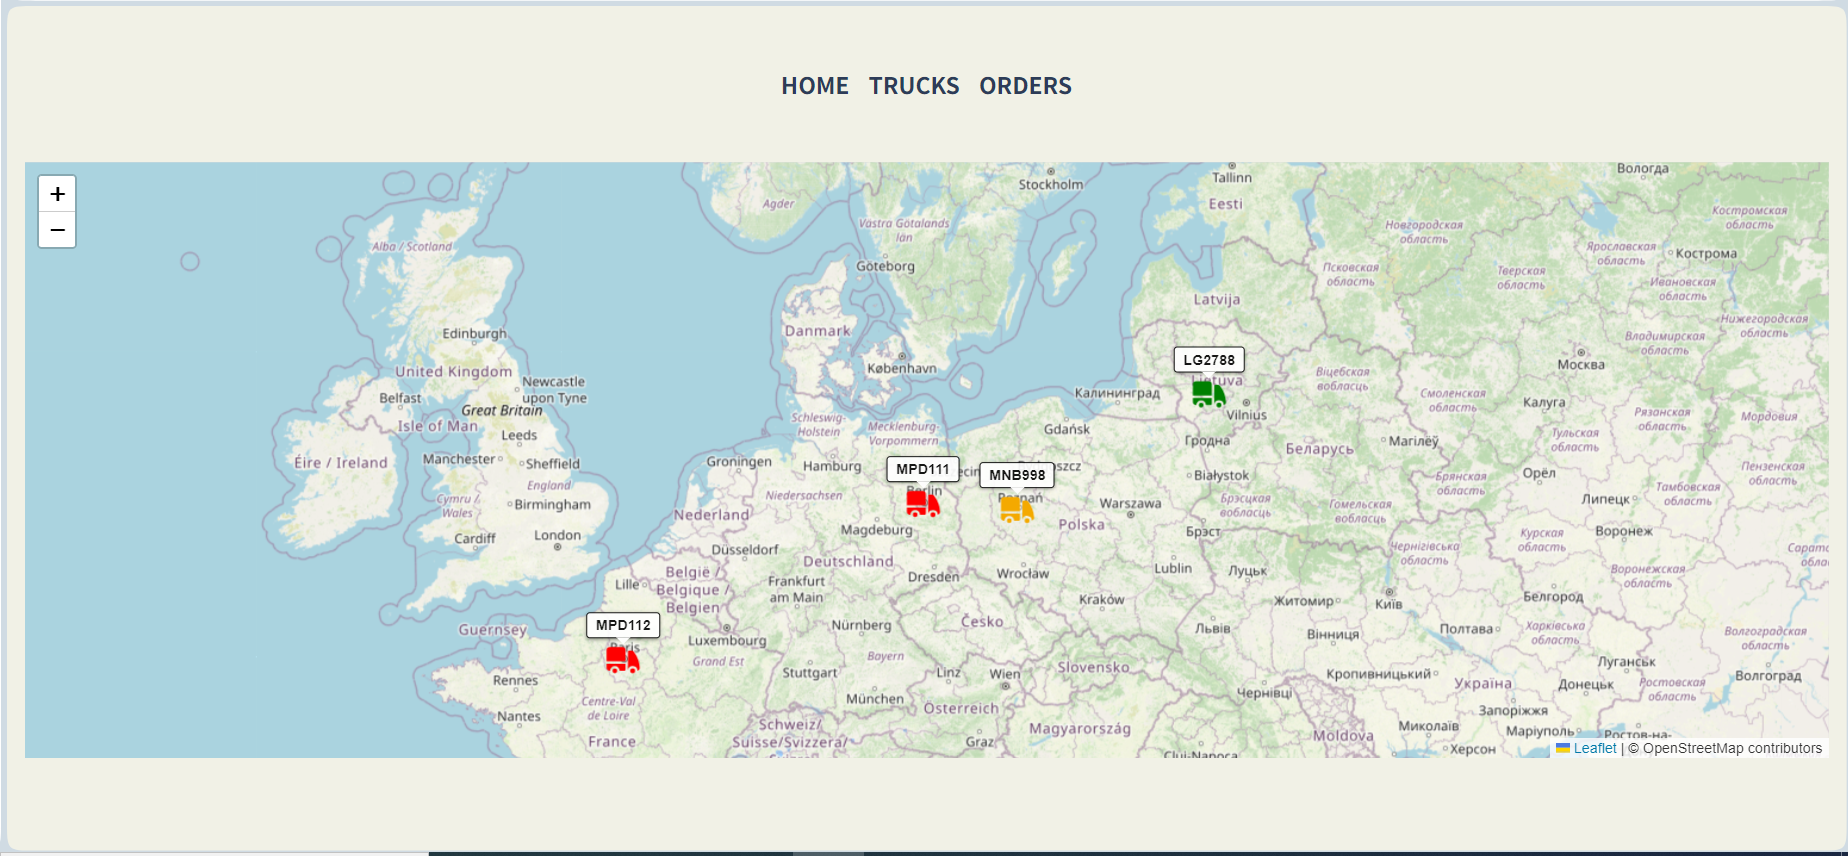
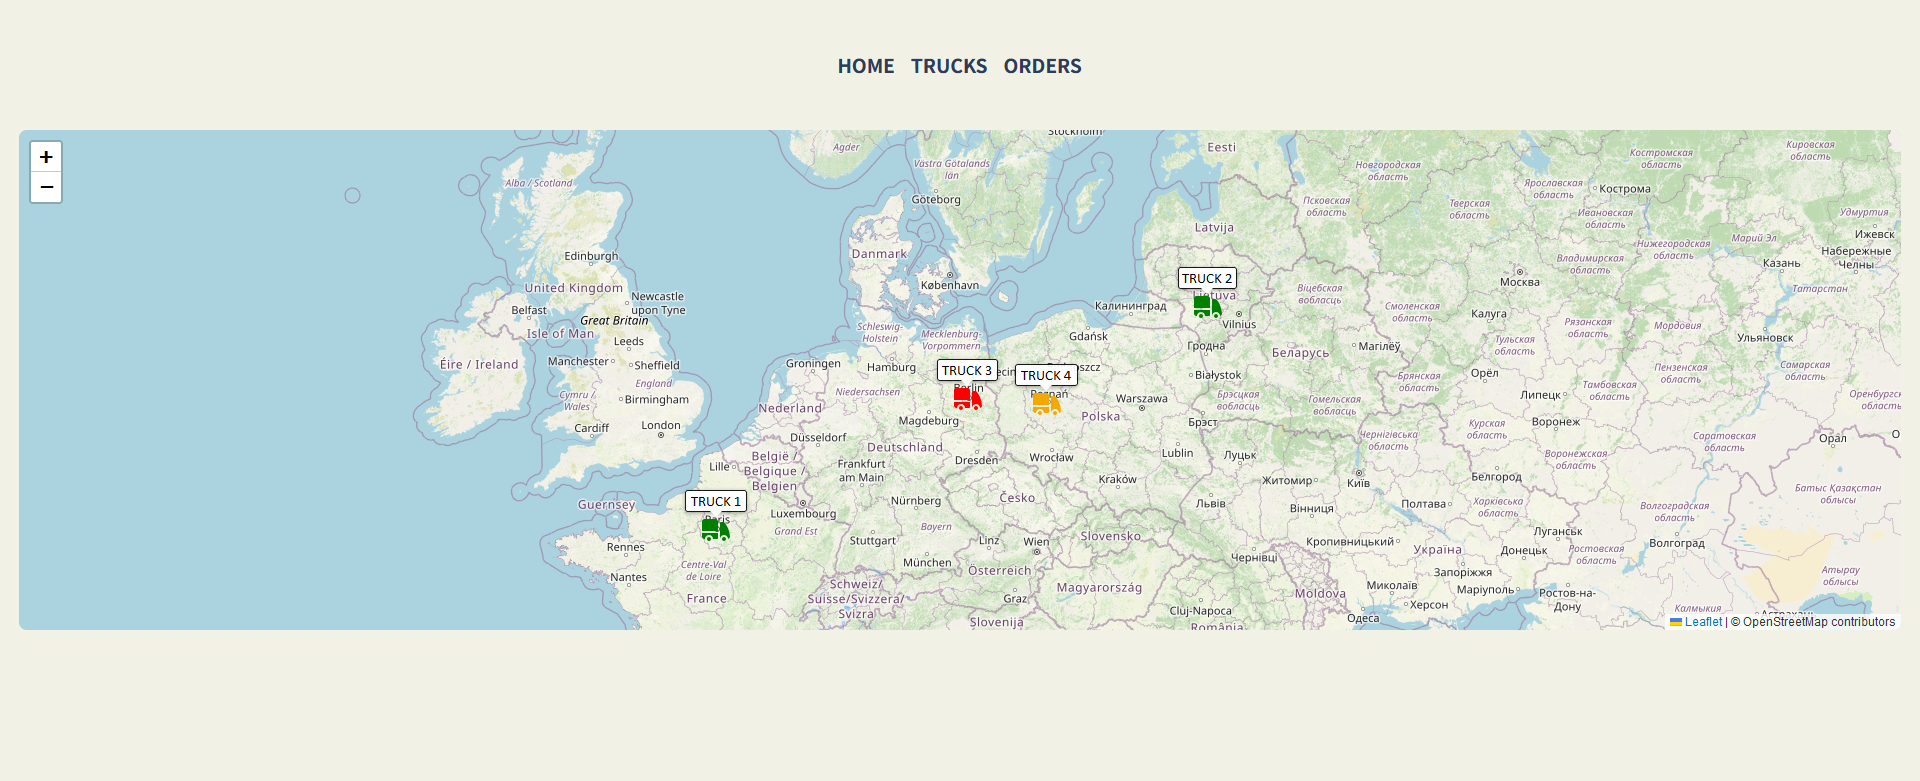
update readme screenshot

diff --git a/src/pages/Home.js b/src/pages/Home.js
@@ -2,6 +2,8 @@ import React from "react";
 import TruckMap from "../components/singleComponents/TruckMap";
 import { useLoaderData } from "react-router-dom";
 
+import classes from './Home.module.css'
+
 const HomePage = () => {
   const data = useLoaderData();
 
@@ -11,7 +13,7 @@ const HomePage = () => {
   }
 
   return (
-    <div id="mapid" style={{margin: '0px 1%'}}>
+    <div id="mapid" className={classes.map}>
       <TruckMap data={data} />
     </div>
   );

diff --git a/src/pages/Home.module.css b/src/pages/Home.module.css
@@ -1,0 +1,4 @@
+.map {
+    margin: 0px 1%;
+    border-radius: 8px;
+}
